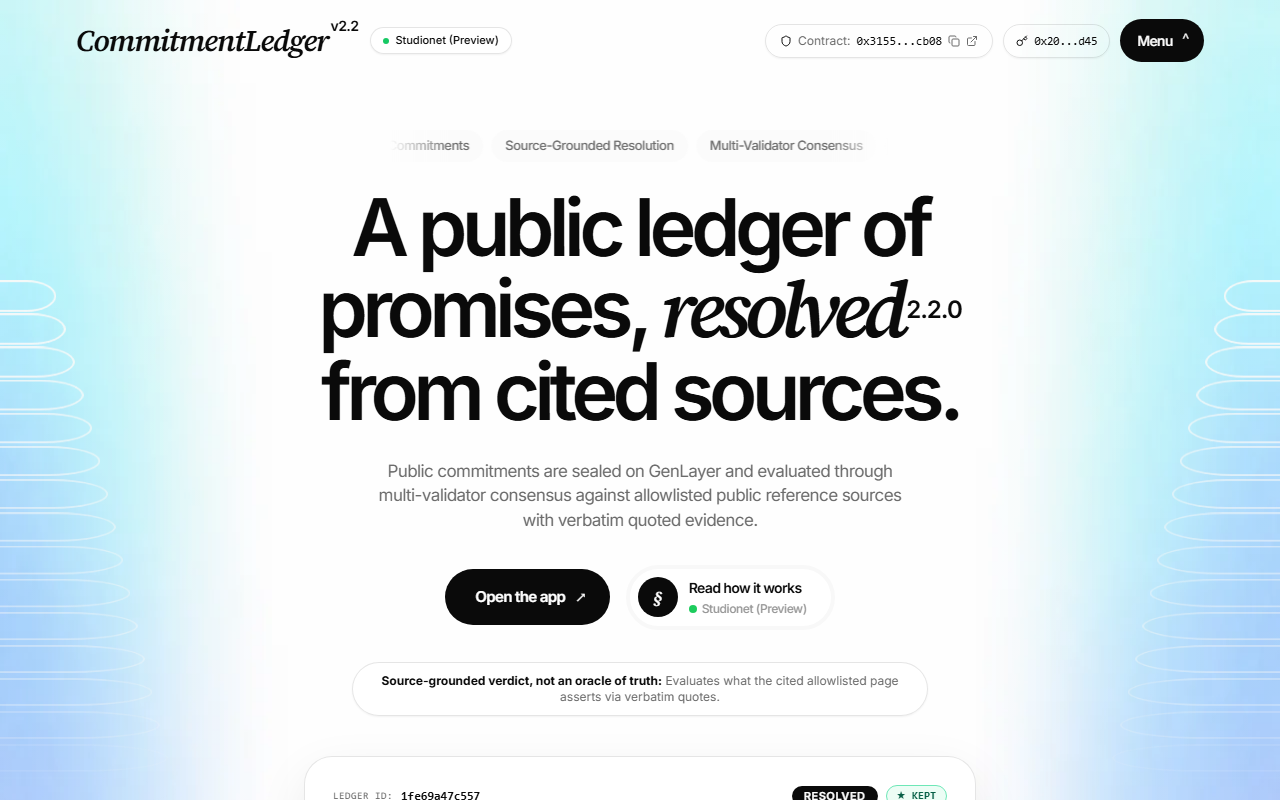
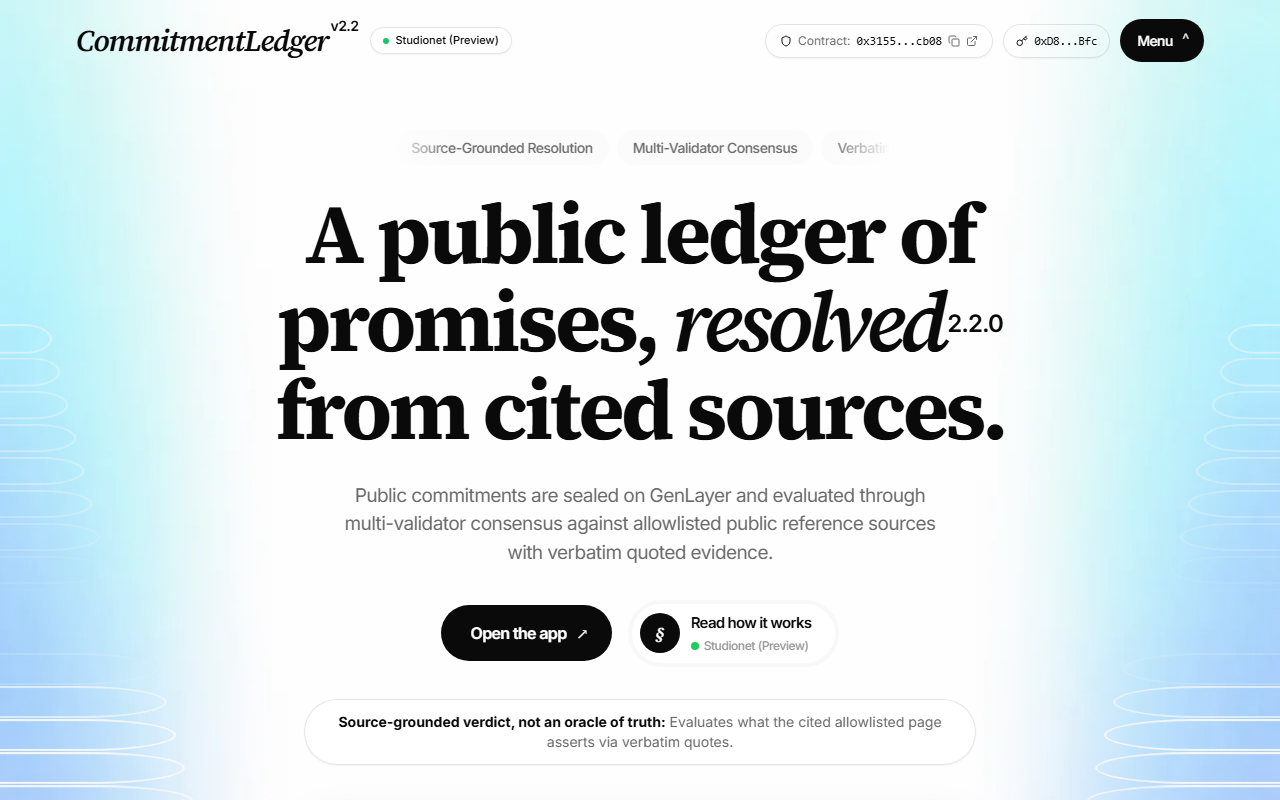
docs: update production screenshots, README screenshot table, and Playwright UI verification suite

diff --git a/src/pages/Workbench.tsx b/src/pages/Workbench.tsx
@@ -590,12 +590,13 @@ export const Workbench: React.FC = () => {
             {activeTab === "lookup" && (
               <div className="space-y-8">
                 {/* Lookup Input Box */}
-                <div className="workbench-surface p-7 sm:p-9 reveal-on-scroll" style={{ "--stagger": 0 } as React.CSSProperties}>
+                <div className="workbench-surface p-7 sm:p-9">
                   <h2 className="font-serif text-2xl font-semibold text-[#0a0a0a]">
                     Read Commitment by ID
                   </h2>
                   <form onSubmit={handleLookup} className="mt-5 flex flex-col gap-3 sm:flex-row">
                     <input
+                      id="lookupId"
                       type="text"
                       value={lookupId}
                       onChange={(e) => setLookupId(e.target.value)}
@@ -644,7 +645,7 @@ export const Workbench: React.FC = () => {
                 </div>
 
                 {/* My Commitments List */}
-                <div className="workbench-surface p-7 sm:p-9 reveal-on-scroll" style={{ "--stagger": 1 } as React.CSSProperties}>
+                <div className="workbench-surface p-7 sm:p-9">
                   <div className="flex items-center justify-between border-b border-black/10 pb-5">
                     <div>
                       <h3 className="font-serif text-xl font-semibold text-[#0a0a0a]">

diff --git a/README.md b/README.md
@@ -31,13 +31,17 @@ This repository contains the front-end dApp:
 
 Captured directly from the Vercel production deployment ([https://commitment-ledger-app-genlayer.vercel.app](https://commitment-ledger-app-genlayer.vercel.app)):
 
-| Landing Overview | How Consensus Works | Verified Studionet Evidence |
+| Hero Serif Intro (Mid-Reveal) | Landing Overview (Settled) | Editorial Section (Architecture) |
 | :---: | :---: | :---: |
-| ![Landing Top](docs/screens/landing_top.png) | ![How It Works](docs/screens/how_it_works.png) | ![Evidence](docs/screens/evidence.png) |
+| ![Landing Hero Mid-Reveal](docs/screens/landing_hero_mid_reveal.png) | ![Landing Top](docs/screens/landing_top.png) | ![Editorial Section](docs/screens/editorial_section.png) |
 
-| Register Form & Client Validation | Reference Examples Inspector | Mobile Viewport (390px) |
+| Ocean Section (How Consensus Works) | Ocean Section (Verified Studionet Evidence) | Register Form & Client Validation |
 | :---: | :---: | :---: |
-| ![App Register](docs/screens/app_register.png) | ![App Examples](docs/screens/app_examples.png) | ![Mobile App](docs/screens/mobile_app.png) |
+| ![How It Works](docs/screens/how_it_works.png) | ![Evidence](docs/screens/evidence.png) | ![App Register](docs/screens/app_register.png) |
+
+| Reference Examples Inspector | Mobile Landing (390px) | Mobile Workbench (390px) |
+| :---: | :---: | :---: |
+| ![App Examples](docs/screens/app_examples.png) | ![Mobile Landing](docs/screens/mobile_landing.png) | ![Mobile App](docs/screens/mobile_app.png) |
 
 ---
 
